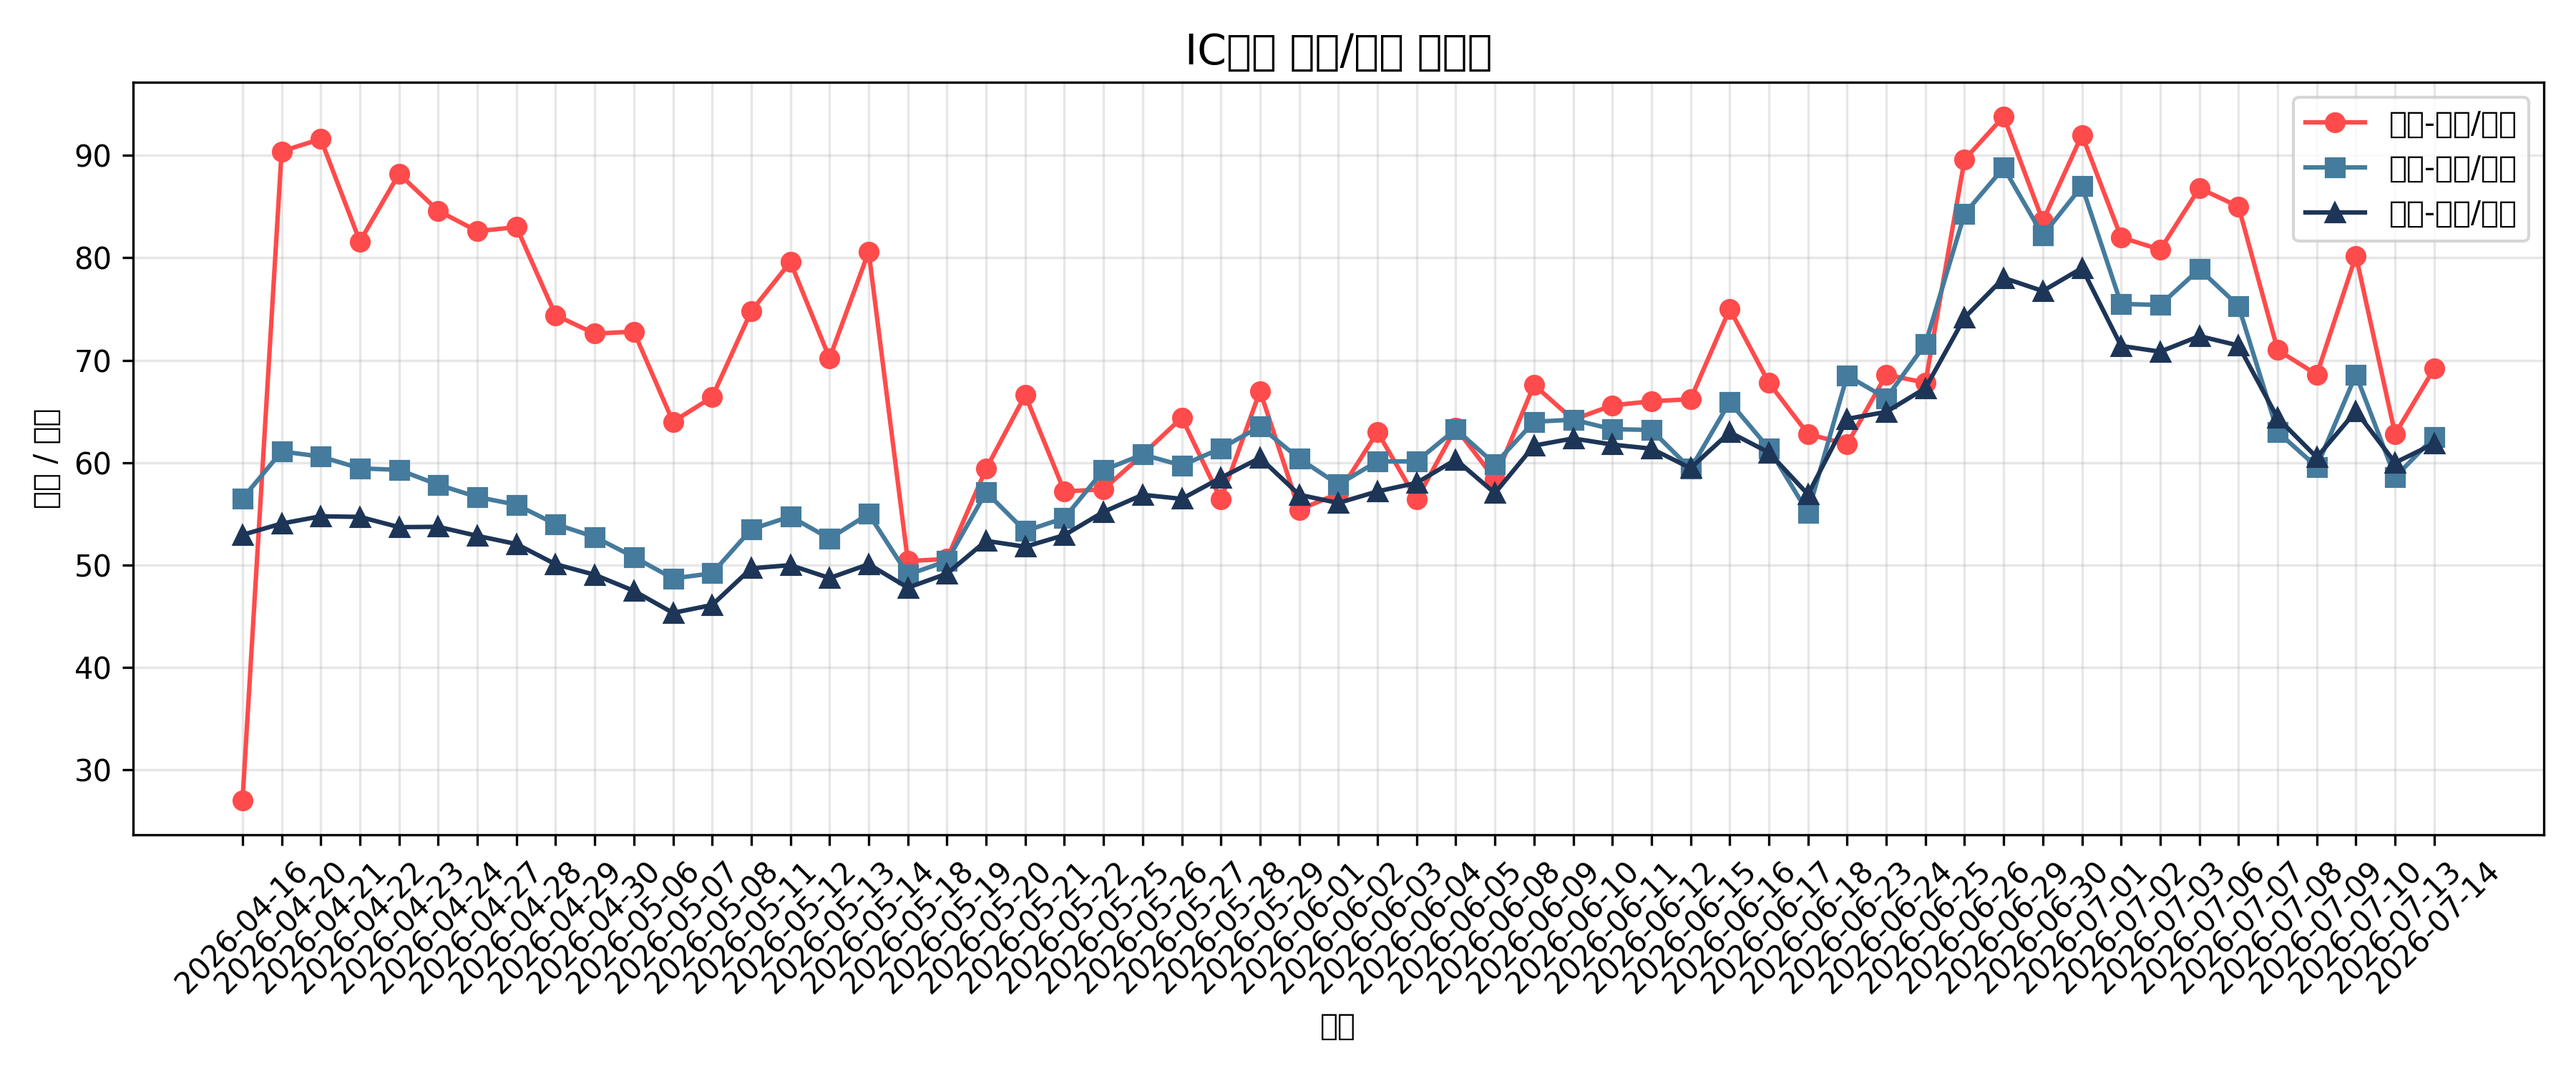
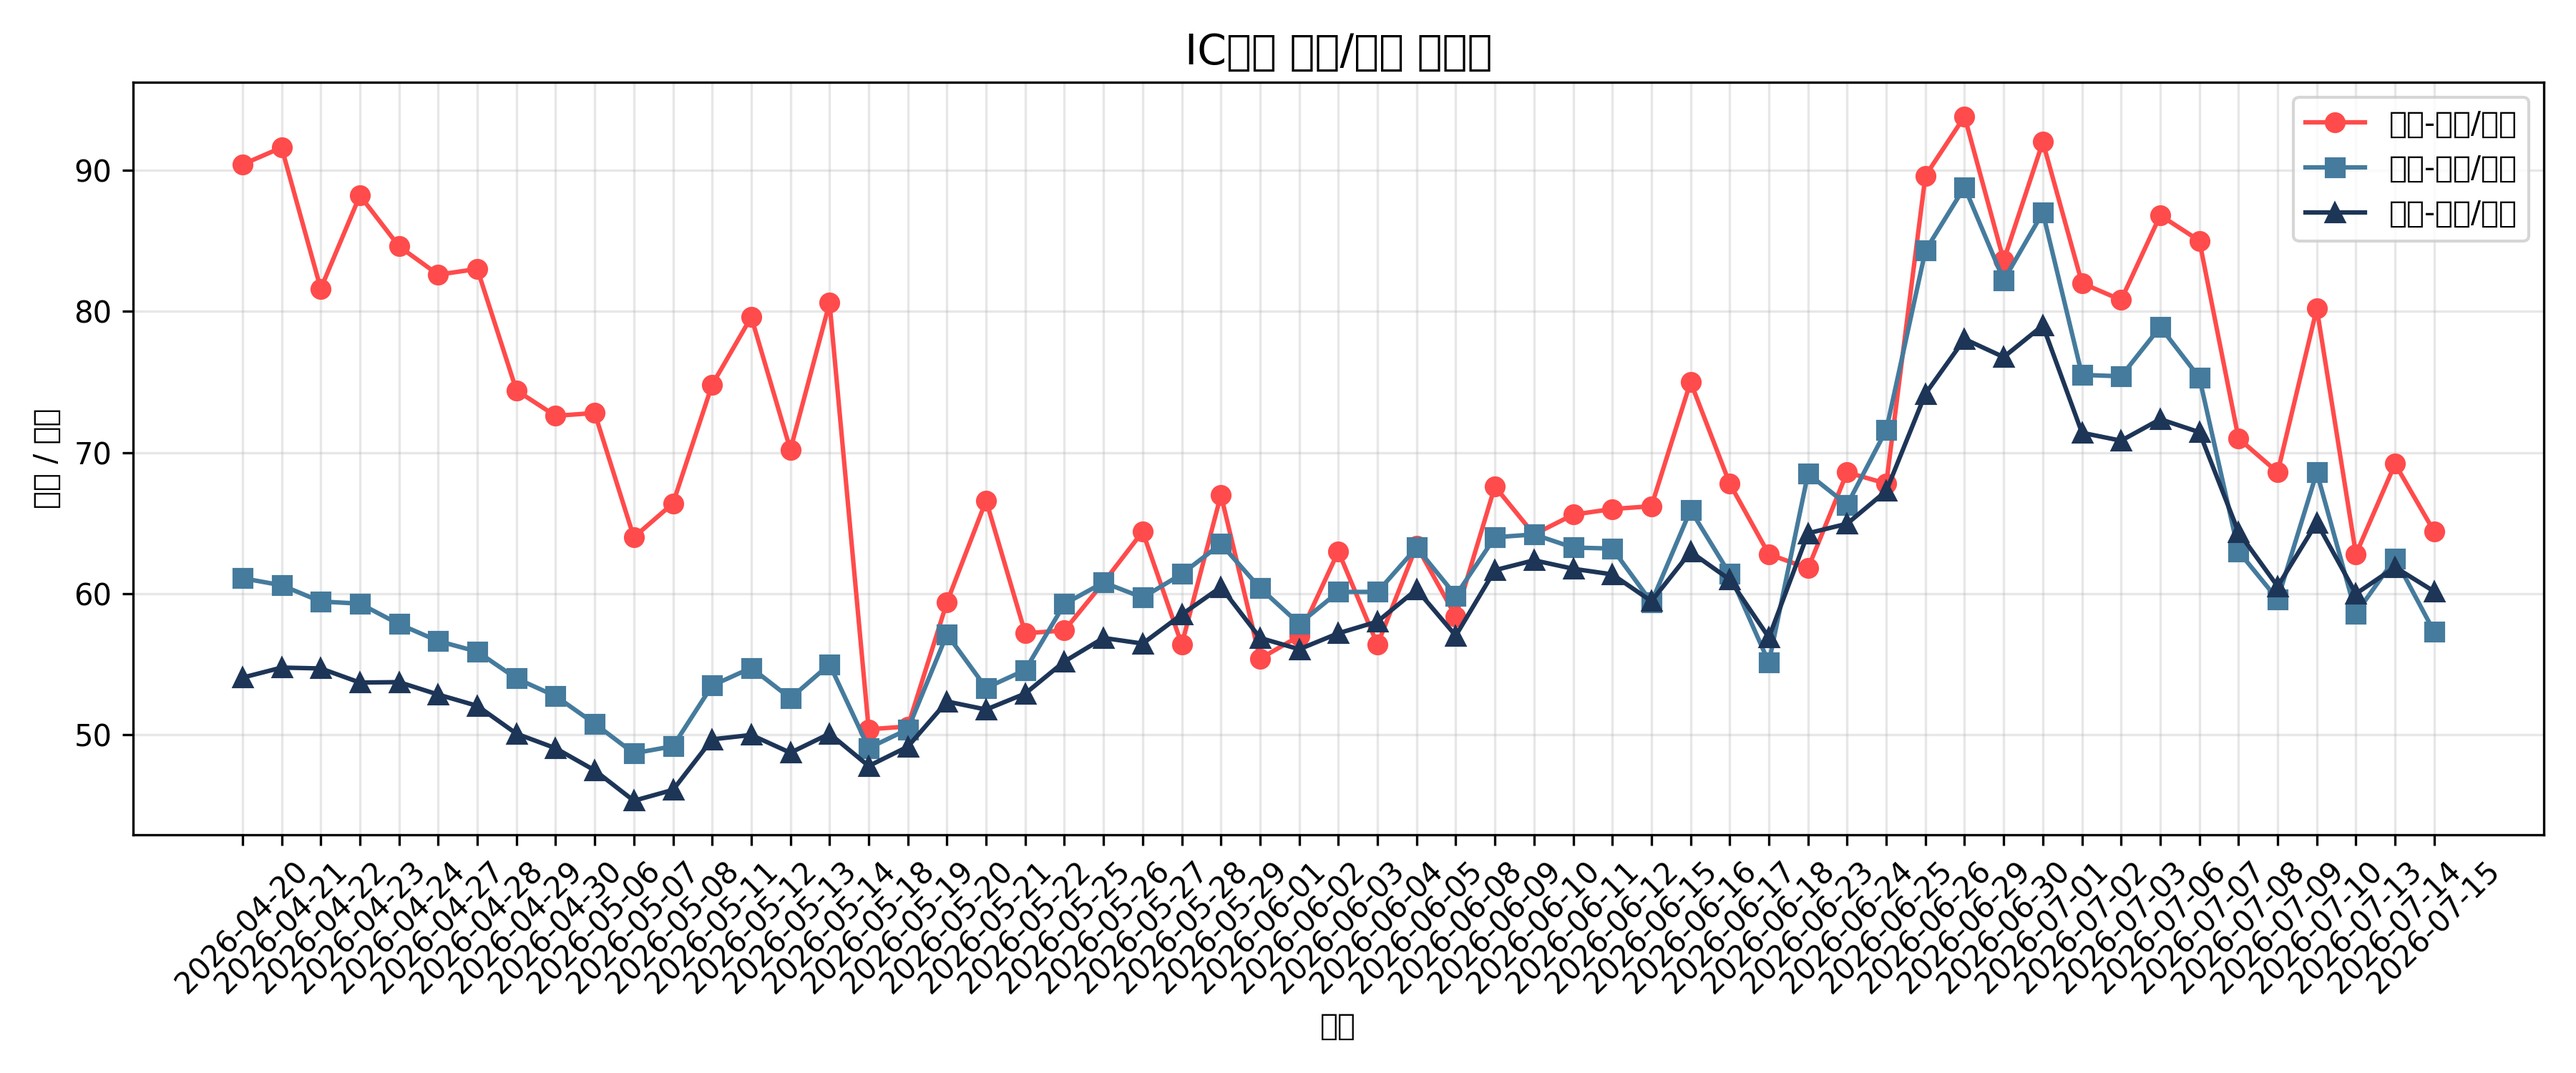
deploy: 4d1bb30b7b0bf8623cc214497fc979b4192c654b

diff --git a/index.html b/index.html
@@ -84,19 +84,19 @@
 <body>
     <div class="container">
         <h1>IC期货基差监控</h1>
-        <div class="last-updated">最后更新：2026-07-14 18:25:08</div>
+        <div class="last-updated">最后更新：2026-07-15 18:29:07</div>
         
         <div class="stats">
             <div class="stat-card">
-                <div class="stat-value">69.2</div>
+                <div class="stat-value">64.4</div>
                 <div class="stat-label">当月-下月/月差</div>
             </div>
             <div class="stat-card">
-                <div class="stat-value">62.5</div>
+                <div class="stat-value">57.3</div>
                 <div class="stat-label">当月-当季/月差</div>
             </div>
             <div class="stat-card">
-                <div class="stat-value">61.88</div>
+                <div class="stat-value">60.16</div>
                 <div class="stat-label">当月-下季/月差</div>
             </div>
         </div>
@@ -114,14 +114,6 @@
                 <th>当月-下月/月差</th>
                 <th>当月-当季/月差</th>
                 <th>当月-下季/月差</th>
-            </tr>
-
-            <tr>
-                <td>2026-07-06</td>
-                <td>IC2607</td>
-                <td>86.8</td>
-                <td>78.9</td>
-                <td>72.36</td>
             </tr>
 
             <tr>
@@ -170,6 +162,14 @@
                 <td>69.2</td>
                 <td>62.5</td>
                 <td>61.88</td>
+            </tr>
+
+            <tr>
+                <td>2026-07-15</td>
+                <td>IC2607</td>
+                <td>64.4</td>
+                <td>57.3</td>
+                <td>60.16</td>
             </tr>
 
         </table>
